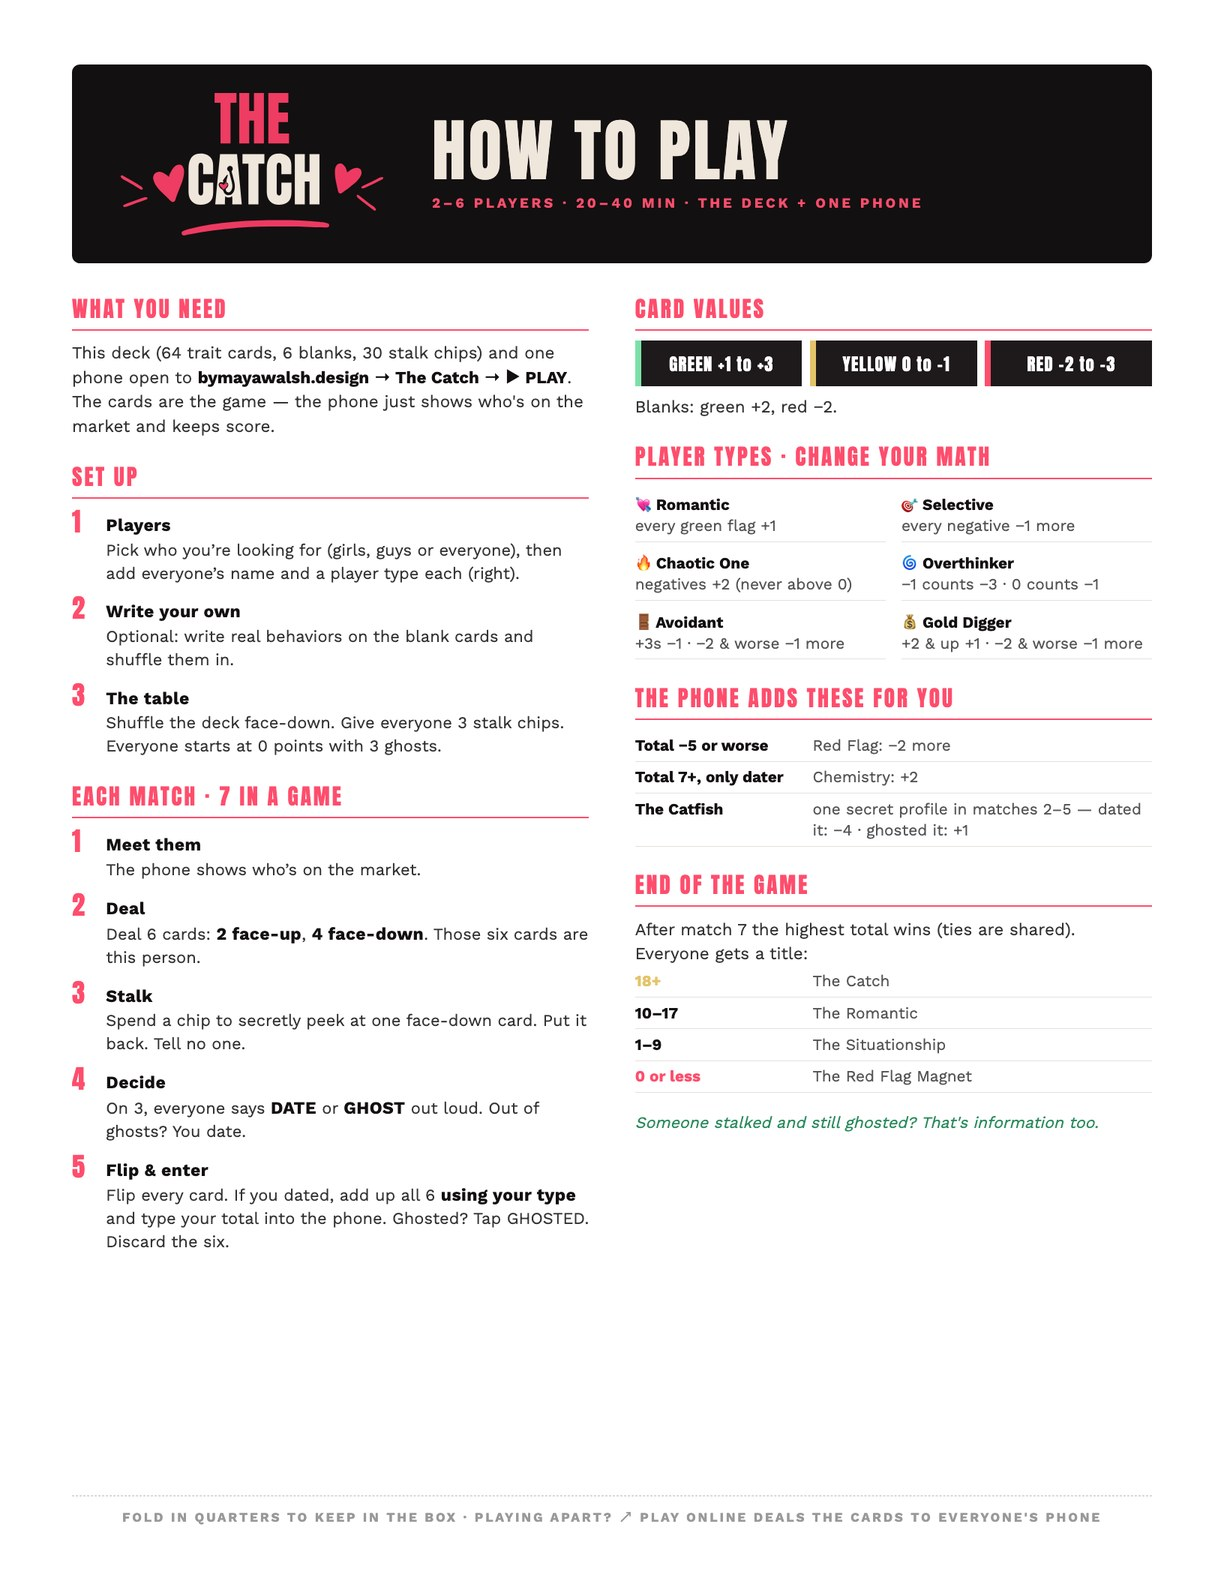
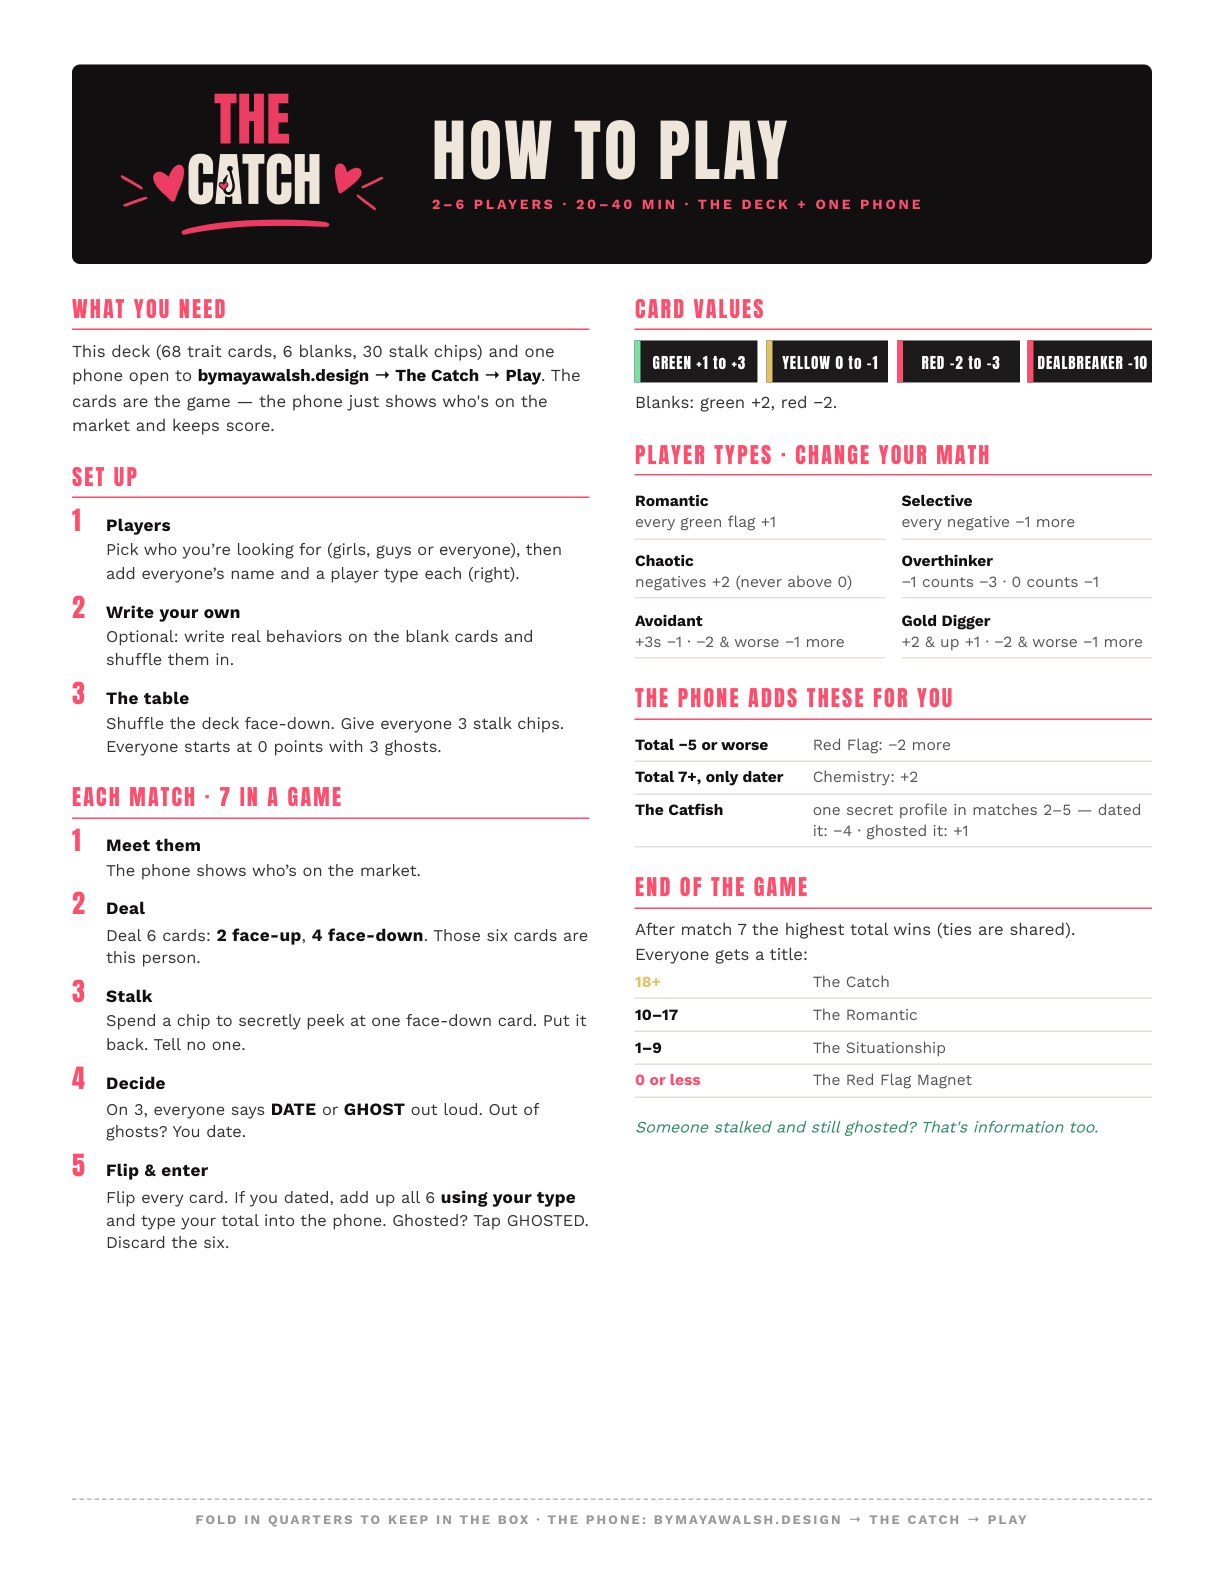
Catch case study: match the real game and newest deck (rounded cards, 76-card contents, Dated/Ghosted UI, real profile and standings layouts, Card swatch instead of unused Velvet, fresh how-to and profile images)

diff --git a/src/components/TheCatchCaseStudy.jsx b/src/components/TheCatchCaseStudy.jsx
@@ -114,26 +114,27 @@ const subSm = (top = 56) => ({ fontFamily: ANTON, fontSize: 22, color: C.cream, 
 // ─── MAIN ─────────────────────────────────────────────────────────────────────
 // ─── How to play: a step-by-step carousel built from the game's own pieces ───
 const dl = { fontFamily: WS, fontWeight: 600, fontSize: 14, color: C.cream, textDecoration: 'none', padding: '10px 16px', borderRadius: 6, border: '1px solid rgba(239,230,220,0.3)' }
-const BAND = '#211928'
+const BAND = '#211928'   // dark velvet: sets the instructions apart from the rest of the case study
 const tile = { background: C.card, border: hair, borderRadius: 12 }
 const label = { fontFamily: WS, fontWeight: 600, fontSize: 13, color: C.accent }
-const brandBtn = { fontFamily: WS, fontWeight: 700, fontSize: 14, letterSpacing: '0.12em', padding: '12px 30px', borderRadius: 6, textAlign: 'center' }   // dark velvet: sets the instructions apart from the rest of the case study
 
+// Matches ProfileCard in TheCatchGame: full-bleed character, match tag, name + gold archetype over a dark fade
 function ProfileCardMini() {
   return (
-    <div style={{ width: 210, borderRadius: 14, overflow: 'hidden', border: hair, background: C.card, boxShadow: '0 20px 40px rgba(0,0,0,0.45)' }}>
-      <div style={{ height: 230, background: DOLL_BG.nia, display: 'flex', justifyContent: 'center', overflow: 'hidden' }}>
-        <div style={{ transform: 'scale(1.05)', transformOrigin: 'top center', marginTop: 6 }}><Doll name="nia" /></div>
-      </div>
-      <div style={{ padding: '12px 14px' }}>
-        <div style={{ fontFamily: ANTON, fontSize: 22, color: C.cream }}>NIA, 26</div>
-        <div style={{ fontFamily: WS, fontWeight: 600, fontSize: 12, color: C.gold }}>The Romantic</div>
+    <div style={{ position: 'relative', width: 220, height: 330, borderRadius: 14, overflow: 'hidden', border: hair, background: DOLL_BG.nia, boxShadow: '0 20px 40px rgba(0,0,0,0.45)', display: 'flex', justifyContent: 'center', alignItems: 'flex-start' }}>
+      <div style={{ transform: 'scale(1.15)', transformOrigin: 'top center', marginTop: 4 }}><Doll name="nia" /></div>
+      <div style={{ position: 'absolute', top: 10, left: 10, fontFamily: ANTON, fontSize: 10, letterSpacing: '0.12em', color: C.cream, background: 'rgba(19,16,17,0.72)', border: '1px solid rgba(239,230,220,0.15)', borderRadius: 4, padding: '3px 8px' }}>MATCH 01 / 07</div>
+      <div style={{ position: 'absolute', bottom: 0, left: 0, right: 0, padding: '60px 14px 14px', background: 'linear-gradient(to top,rgba(0,0,0,0.96),transparent)' }}>
+        <div style={{ fontFamily: ANTON, color: C.cream, fontSize: 28, lineHeight: 1 }}>NIA, 26</div>
+        <div style={{ fontFamily: WS, fontWeight: 700, color: C.gold, fontSize: 10, letterSpacing: '0.22em', marginTop: 5 }}>THE TRAVELER</div>
       </div>
     </div>
   )
 }
 
-const choice = (on) => ({ fontFamily: WS, fontWeight: 700, fontSize: 18, letterSpacing: '0.12em', padding: '16px 34px', borderRadius: 8, color: on ? '#fff' : C.cream, background: on ? C.accent : 'transparent', border: `1px solid ${on ? C.accent : 'rgba(239,230,220,0.35)'}` })
+// The game's own button styles (primaryBtn / choiceBtn in TheCatchGame)
+const gamePrimary = { fontFamily: WS, fontWeight: 700, fontSize: 15, letterSpacing: '0.12em', minHeight: 52, padding: '0 26px', borderRadius: 6, color: '#fff', background: C.accent, border: 'none', boxShadow: '0 0 20px rgba(255,77,109,0.35)', display: 'inline-flex', alignItems: 'center', justifyContent: 'center', whiteSpace: 'nowrap' }
+const gameChoice = (sel) => ({ minHeight: 40, padding: '0 14px', fontFamily: WS, fontWeight: 600, fontSize: 12, color: sel ? '#fff' : '#aaa', background: sel ? C.accent : 'transparent', border: `1px solid ${sel ? C.accent : '#3a3535'}`, borderRadius: 6, display: 'inline-flex', alignItems: 'center', justifyContent: 'center', whiteSpace: 'nowrap' })
 
 const HAND = [17, 10, 40, 48, 5, 7]     // the example hand: totals +7 (the −3 is the card peeked at in Stalk)
 
@@ -160,9 +161,11 @@ const STEPS = [
   )],
   ['Date or ghost', 'On three, everyone says it out loud at the same time. Out of ghosts? You have to date.', () => (
     <div style={{ textAlign: 'center' }}>
-      <div style={{ fontFamily: ANTON, fontSize: 44, color: 'rgba(239,230,220,0.35)', letterSpacing: '0.3em', marginBottom: 22 }}>3 · 2 · 1</div>
-      <div style={{ display: 'flex', gap: 14, justifyContent: 'center' }}>
-        <span style={choice(true)}>DATE</span><span style={choice(false)}>GHOST</span>
+      <div style={{ fontFamily: ANTON, fontSize: 40, color: 'rgba(239,230,220,0.35)', letterSpacing: '0.3em', marginBottom: 18 }}>3 · 2 · 1</div>
+      {/* said out loud at the table, so shown as speech, not as buttons */}
+      <div style={{ display: 'flex', gap: 22, justifyContent: 'center', alignItems: 'baseline' }}>
+        <span style={{ fontFamily: ANTON, fontSize: 64, lineHeight: 1, color: C.accent, transform: 'rotate(-4deg)', display: 'inline-block' }}>“DATE!”</span>
+        <span style={{ fontFamily: ANTON, fontSize: 52, lineHeight: 1, color: C.cream, transform: 'rotate(3deg)', display: 'inline-block' }}>“GHOST!”</span>
       </div>
     </div>
   )],
@@ -171,18 +174,30 @@ const STEPS = [
       <div style={{ display: 'grid', gridTemplateColumns: 'repeat(3, 84px)', gap: 8 }}>
         {HAND.map(n => <div key={n}><Scaled w={84} base={118}><TraitCardFront text={card(n).text} value={card(n).value} /></Scaled></div>)}
       </div>
-      <div style={{ fontFamily: ANTON, fontSize: 30, color: C.teal, marginTop: 14 }}>
+      <div style={{ fontFamily: ANTON, fontSize: 30, color: C.teal, marginTop: 12 }}>
         = {(() => { const t = HAND.reduce((a, n) => a + card(n).value, 0); return t > 0 ? `+${t}` : t })()}
+      </div>
+      {/* the score row from the game's "Who dated?" screen */}
+      <div style={{ marginTop: 12, padding: '10px 12px', background: C.card, border: hair, borderRadius: 8, textAlign: 'left' }}>
+        <div style={{ fontFamily: ANTON, fontSize: 15, color: C.cream, marginBottom: 6 }}>MAYA</div>
+        <div style={{ display: 'grid', gridTemplateColumns: '1fr 1fr', gap: 6 }}><span style={gameChoice(true)}>Dated</span><span style={gameChoice(false)}>Ghosted (3 left)</span></div>
       </div>
     </div>
   )],
   ['See where you stand', 'The phone adds the bonuses, reveals any catfish and ranks everyone. Then the next stranger.', () => (
-    <div style={{ width: 280 }}>
-      {[['Maya', '+9', 'Dated alone: +7, Chemistry +2', C.gold], ['Lanie', '±0', 'Ghosted', C.cream], ['Jo', '±0', 'Ghosted', C.cream]].map(([name, pts, note, col], i) => (
-        <div key={name} style={{ display: 'grid', gridTemplateColumns: '24px 1fr auto', alignItems: 'center', gap: 10, padding: '12px 14px', marginBottom: 8, background: C.card, borderRadius: 8, border: i === 0 ? `1px solid ${C.gold}88` : hair }}>
-          <span style={{ fontFamily: ANTON, fontSize: 18, color: i === 0 ? C.gold : '#777' }}>{i + 1}</span>
-          <div><div style={{ fontFamily: ANTON, fontSize: 18, color: col }}>{name.toUpperCase()}</div><div style={{ fontFamily: WS, fontSize: 11, color: muted }}>{note}</div></div>
-          <span style={{ fontFamily: ANTON, fontSize: 22, color: pts.startsWith('+') ? C.teal : pts.startsWith('±') ? muted : C.accent }}>{pts}</span>
+    // Same layout as Standings in TheCatchGame: rank, name, "+N this match · what happened", running total
+    <div style={{ width: 300 }}>
+      {[['Maya', 9, 'Dated, cards +7 · Chemistry +2'], ['Lanie', 0, 'Ghosted'], ['Jo', 0, 'Ghosted']].map(([name, pts, what], i) => (
+        <div key={name} style={{ display: 'grid', gridTemplateColumns: '22px 1fr auto', alignItems: 'center', gap: 12, padding: '12px 14px', marginBottom: 8, background: C.card, borderRadius: 6, border: i === 0 ? `1px solid ${C.gold}66` : hair }}>
+          <span style={{ fontFamily: ANTON, fontSize: 20, color: i === 0 ? C.gold : '#555', textAlign: 'center' }}>{i + 1}</span>
+          <div style={{ minWidth: 0 }}>
+            <div style={{ fontFamily: ANTON, fontSize: 19, color: C.cream, letterSpacing: '0.03em', lineHeight: 1.1 }}>{name.toUpperCase()}</div>
+            <div style={{ fontFamily: WS, fontSize: 11, lineHeight: 1.45, marginTop: 3 }}>
+              <span style={{ fontWeight: 700, color: pts > 0 ? C.teal : '#888' }}>{pts > 0 ? `+${pts}` : '±0'} this match</span>
+              <span style={{ color: '#888' }}> · {what}</span>
+            </div>
+          </div>
+          <div style={{ fontFamily: ANTON, fontSize: 28, lineHeight: 1, color: C.cream }}>{pts > 0 ? `+${pts}` : '±0'}</div>
         </div>
       ))}
     </div>
@@ -359,7 +374,7 @@ export default function TheCatchCaseStudy({ onClose, onPlay }) {
         <div style={{ display: 'grid', gridTemplateColumns: 'repeat(auto-fit, minmax(300px, 1fr))', gap: 56, alignItems: 'center' }}>
           <div>
             <Head kicker="The deck">The cards hold the secrets.</Head>
-            <P>68 trait cards (green, yellow and red flags, plus 4 dealbreakers worth −10), 6 blanks to write your own, 30 stalk chips and a one-page how-to sheet that lives in the box. Print it at home and play.</P>
+            <P>76 cards: 68 trait cards (green, yellow and red flags, plus 4 dealbreakers worth −10), 6 blanks to write your own and 2 rules cards. Plus 30 stalk chips and a one-page how-to sheet that lives in the box. Print it at home and play.</P>
             <Small style={{ marginTop: 12 }}>Poker-size cards, 2.5 × 3.5 in.</Small>
           </div>
           <div style={{ position: 'relative', display: 'grid', gridTemplateColumns: 'repeat(auto-fill, minmax(140px, 1fr))', gap: 12 }}>
@@ -459,7 +474,7 @@ export default function TheCatchCaseStudy({ onClose, onPlay }) {
           </div>
           {/* palette at the proportions it's used */}
           <div style={{ gridColumn: 'span 6', display: 'flex', flexWrap: 'wrap', borderRadius: 12, overflow: 'hidden', border: hair }}>
-            {[['Midnight', C.bg, 'Background', 5, C.cream], ['Velvet', C.velvet, 'Accents', 2, C.cream], ['Hot pink', C.accent, 'Dates and actions', 1.6, '#fff'], ['Cream', C.cream, 'Text', 1.3, C.bg], ['Mint', C.teal, 'Good signs', 1, C.bg], ['Gold', C.gold, 'Earned', 1, C.bg]].map(([name, hex, role, weight, ink]) => (
+            {[['Midnight', C.bg, 'Background', 5, C.cream], ['Card', C.card, 'Cards and panels', 2, C.cream], ['Hot pink', C.accent, 'Dates and actions', 1.6, '#fff'], ['Cream', C.cream, 'Text', 1.3, C.bg], ['Mint', C.teal, 'Good signs', 1, C.bg], ['Gold', C.gold, 'Earned', 1, C.bg]].map(([name, hex, role, weight, ink]) => (
               <div key={name} style={{ flex: `${weight} 1 120px`, minHeight: 150, background: hex, padding: '16px 16px', display: 'flex', flexDirection: 'column', justifyContent: 'flex-end', color: ink }}>
                 {/* name, hex and role each on one line, so every swatch's labels line up */}
                 <div style={{ fontFamily: ANTON, fontSize: 20, lineHeight: 1.2, letterSpacing: '0.04em', whiteSpace: 'nowrap' }}>{name.toUpperCase()}</div>
@@ -492,9 +507,9 @@ export default function TheCatchCaseStudy({ onClose, onPlay }) {
               <div style={{ width: 120, transform: 'rotate(-5deg)' }}><TraitCardBack /></div>
               <div style={{ width: 120, transform: 'rotate(4deg)' }}><TraitCardFront text={card(65).text} value={card(65).value} /></div>
               <StalkChip size={110} />
-              <div style={{ display: 'flex', flexDirection: 'column', gap: 10 }}>
-                <span style={{ ...brandBtn, color: '#fff', background: C.accent, border: `1px solid ${C.accent}` }}>DATE</span>
-                <span style={{ ...brandBtn, color: C.cream, background: 'transparent', border: '1px solid rgba(239,230,220,0.35)' }}>GHOST</span>
+              <div style={{ display: 'flex', flexDirection: 'column', gap: 10, width: 'min(300px, 100%)' }}>
+                <span style={gamePrimary}>SCORE THE MATCH</span>
+                <div style={{ display: 'grid', gridTemplateColumns: '1fr 1fr', gap: 6 }}><span style={gameChoice(true)}>Dated</span><span style={gameChoice(false)}>Ghosted (3 left)</span></div>
               </div>
               <CatchWordmark size={26} accent={C.accent} cream={C.cream} />
             </div>

diff --git a/src/components/CatchCards.jsx b/src/components/CatchCards.jsx
@@ -6,6 +6,8 @@ import { CatchWordmark } from './CatchBrand'
 const C = { bg: '#131011', card: '#1E1A1B', accent: '#FF4D6D', teal: '#7CE0A8', gold: '#E4C46A', cream: '#EFE6DC' }
 const ANTON = "'Anton', sans-serif"
 const WS    = "'Work Sans', sans-serif"
+// Rounded like the printed poker cards: 1/8 in corners on a 2.5 x 3.5 in card
+const RADIUS = '5% / 3.57%'
 
 function flagOf(v) {
   if (v <= -4) return ['DEALBREAKER', C.accent]
@@ -21,7 +23,7 @@ export function TraitCardFront({ text, value, blank = false, green = true, compa
   const s = compact ? { pad: '8px 7px 7px 9px', no: 9, tag: 5, text: 9.5, mark: 5.5, val: 19, border: 4 }
                     : { pad: '12px 12px 11px 14px', no: 11, tag: 6, text: 11.5, mark: 7, val: 26, border: 5 }
   return (
-    <div style={{ aspectRatio: '5 / 7', background: C.card, borderLeft: `${s.border}px solid ${col}`, padding: s.pad, display: 'flex', flexDirection: 'column', boxShadow: '0 16px 32px rgba(0,0,0,0.5)', boxSizing: 'border-box' }}>
+    <div style={{ aspectRatio: '5 / 7', borderRadius: RADIUS, overflow: 'hidden', background: C.card, borderLeft: `${s.border}px solid ${col}`, padding: s.pad, display: 'flex', flexDirection: 'column', boxShadow: '0 16px 32px rgba(0,0,0,0.5)', boxSizing: 'border-box' }}>
       <div style={{ display: 'flex', justifyContent: 'space-between', alignItems: 'center', gap: 4 }}>
         {blank && <span style={{ fontFamily: ANTON, fontSize: s.no - 2, letterSpacing: '0.08em', color: 'rgba(239,230,220,0.55)', whiteSpace: 'nowrap' }}>WRITE YOUR OWN</span>}
         <span style={{ fontFamily: WS, fontWeight: 700, fontSize: s.tag, letterSpacing: '0.14em', color: label === 'DEALBREAKER' ? C.bg : col, background: label === 'DEALBREAKER' ? col : 'transparent', border: `1px solid ${col}`, padding: '2px 3px', whiteSpace: 'nowrap' }}>{label}</span>
@@ -39,7 +41,7 @@ export function TraitCardFront({ text, value, blank = false, green = true, compa
 
 export function TraitCardBack({ compact = false }) {
   return (
-    <div style={{ aspectRatio: '5 / 7', background: C.bg, backgroundImage: 'radial-gradient(circle, rgba(239,230,220,0.07) 1px, transparent 1px)', backgroundSize: '8px 8px', position: 'relative', display: 'flex', flexDirection: 'column', alignItems: 'center', justifyContent: 'center', boxShadow: '0 16px 32px rgba(0,0,0,0.5)', boxSizing: 'border-box' }}>
+    <div style={{ aspectRatio: '5 / 7', borderRadius: RADIUS, overflow: 'hidden', background: C.bg, backgroundImage: 'radial-gradient(circle, rgba(239,230,220,0.07) 1px, transparent 1px)', backgroundSize: '8px 8px', position: 'relative', display: 'flex', flexDirection: 'column', alignItems: 'center', justifyContent: 'center', boxShadow: '0 16px 32px rgba(0,0,0,0.5)', boxSizing: 'border-box' }}>
       <div style={{ position: 'absolute', inset: compact ? 5 : 8, border: `1px solid ${C.accent}73` }} />
       <img src="/thecatch/brand/logo-full.svg" alt="" style={{ width: '72%' }} />
       <div style={{ position: 'absolute', bottom: compact ? 10 : 16, fontFamily: WS, fontWeight: 700, fontSize: compact ? 5 : 6.5, letterSpacing: '0.3em', color: C.accent }}>TRAIT CARD</div>
